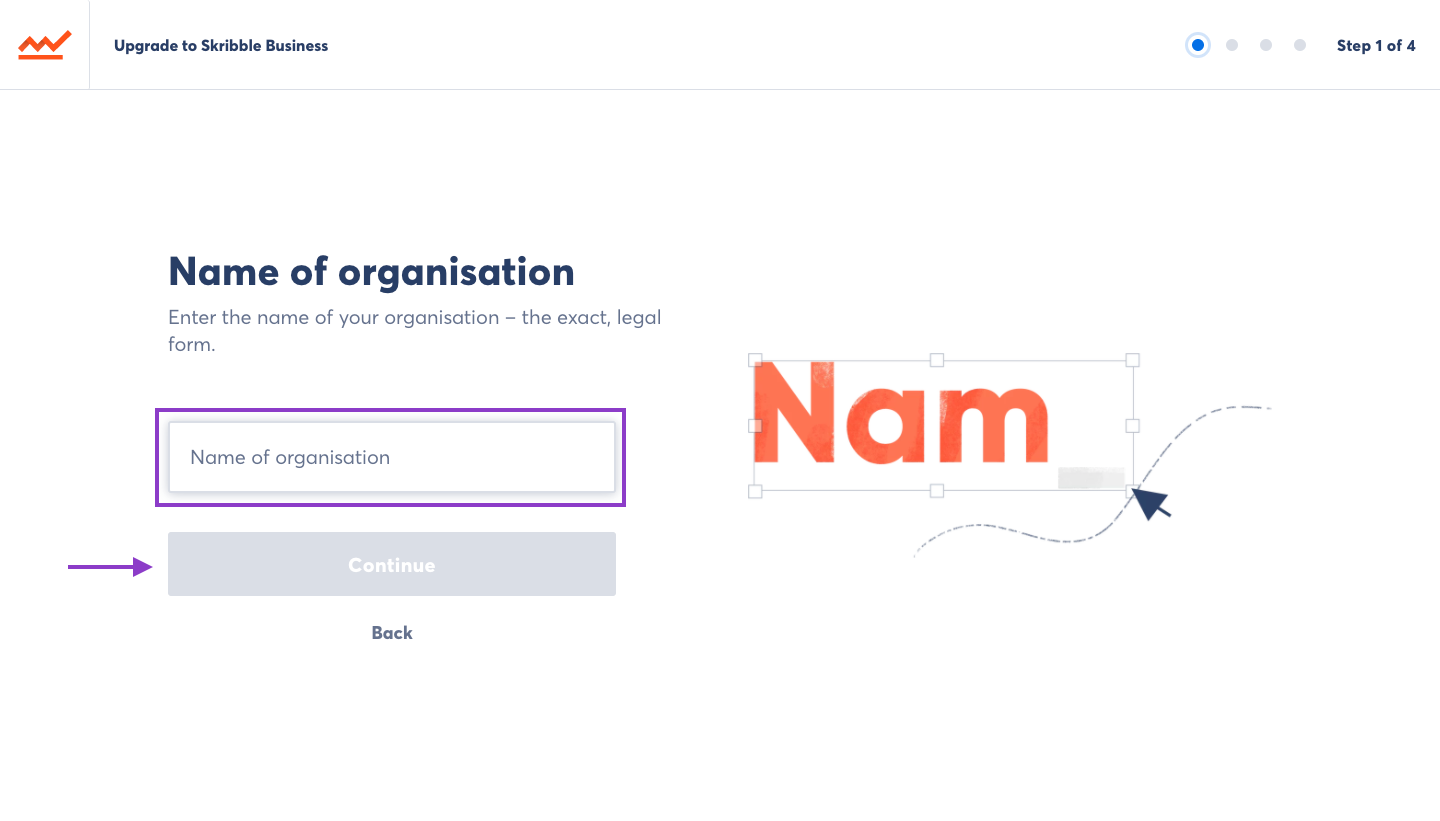
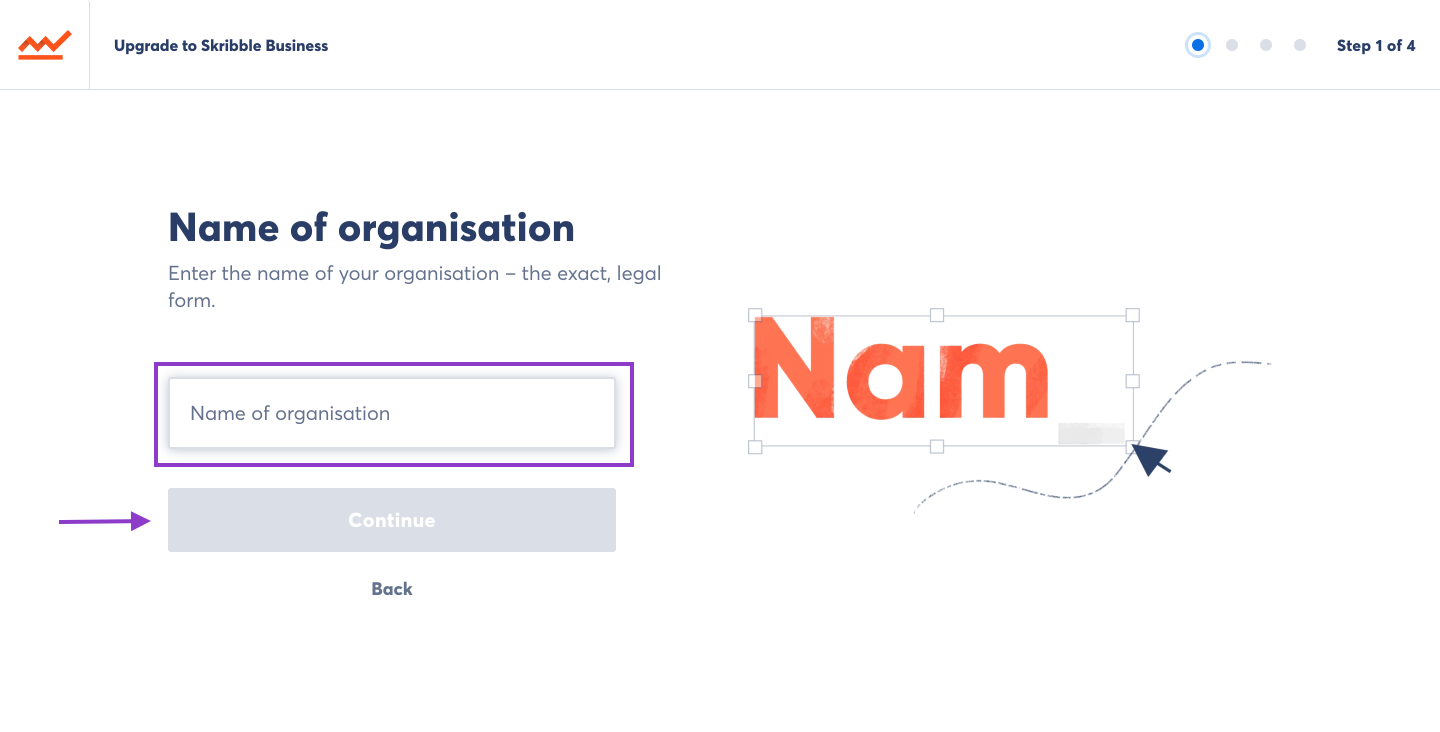
adds final images for quickstart folder

diff --git a/source/quickstart/upgrade.rst b/source/quickstart/upgrade.rst
@@ -9,55 +9,50 @@ To upgrade your account to Skribble Business:
 
 - Click the menu button in the top left
 
-.. figure:: upgrade_menu.png
+
+.. image:: upgrade_menu.png
     :alt: pointer to menu button
-    :class: with-shadow
-    :figclass: align-center
-
-
-Here is some test text. Should not be a caption.
-
-.. figure:: main_screen_test.png
-    :alt: testing
-    :class: with-shadow
-
-
-.. image:: upgrade_button.png
-    :class: with-shadow
-
-
-.. figure:: menu_test.png
-    :class: with-shadow
-
-
-.. image:: ipad_test.png
-    :class: with-shadow
-
-
-.. figure:: ipad_test2.png
     :class: with-shadow
 
 
 - Click **Upgrade Now** under "Skribble Business"
 
-*image*
+
+.. image:: upgrade_button.png
+    :class: with-shadow
 
 On the following page you will see a brief description of Skribble Business.
 
 - To upgrade, click **Upgrade now**
 
-*image*
 
-- Enter the exact, legal name of your organisation on the first page of registration
+.. image:: upgrade_launch.png
+    :class: with-shadow
 
-*image*
 
-- Enter the address of your organisation on the second page of registration.
+- Enter the exact, legal name of your organisation and click **Continue**
 
-*image*
+
+.. image:: upgrade_step1.png
+    :class: with-shadow
+
+
+- Enter the address of your organisation and click **Continue**
+
+
+.. image:: upgrade_step2.png
+    :class: with-shadow
+
 
 - Read the General Terms & Conditions on the third page of registration. If you agree, click the box next to "I agree with the General Terms and Conditions (GTC)", then click **Complete upgrade**
 
-*image*
+
+.. image:: upgrade_step3.png
+    :class: with-shadow
+
 
 Congratulations, your account has been upgraded to Skribble Business! Click **Start now** to begin managing your organisation.
+
+
+.. image:: upgrade_welcome.png
+    :class: with-shadow
